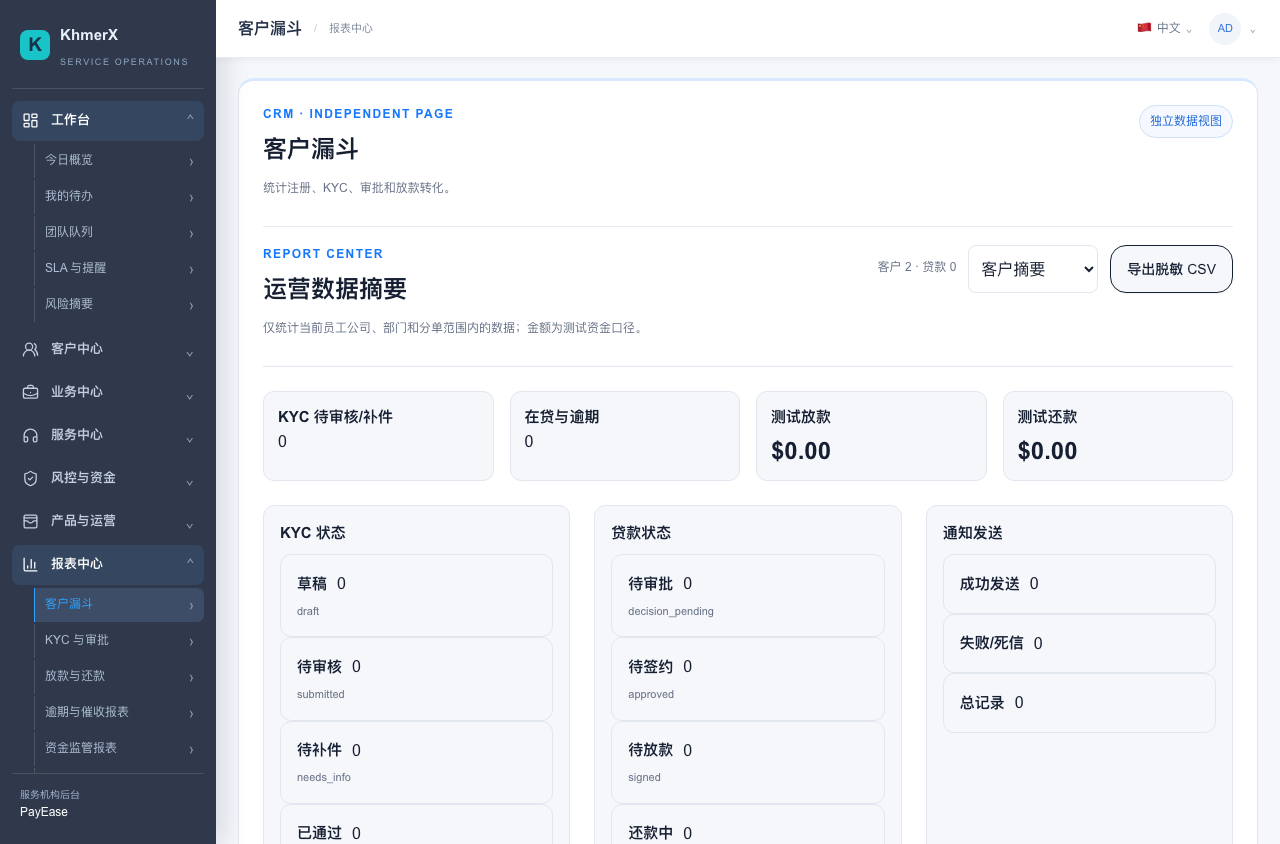
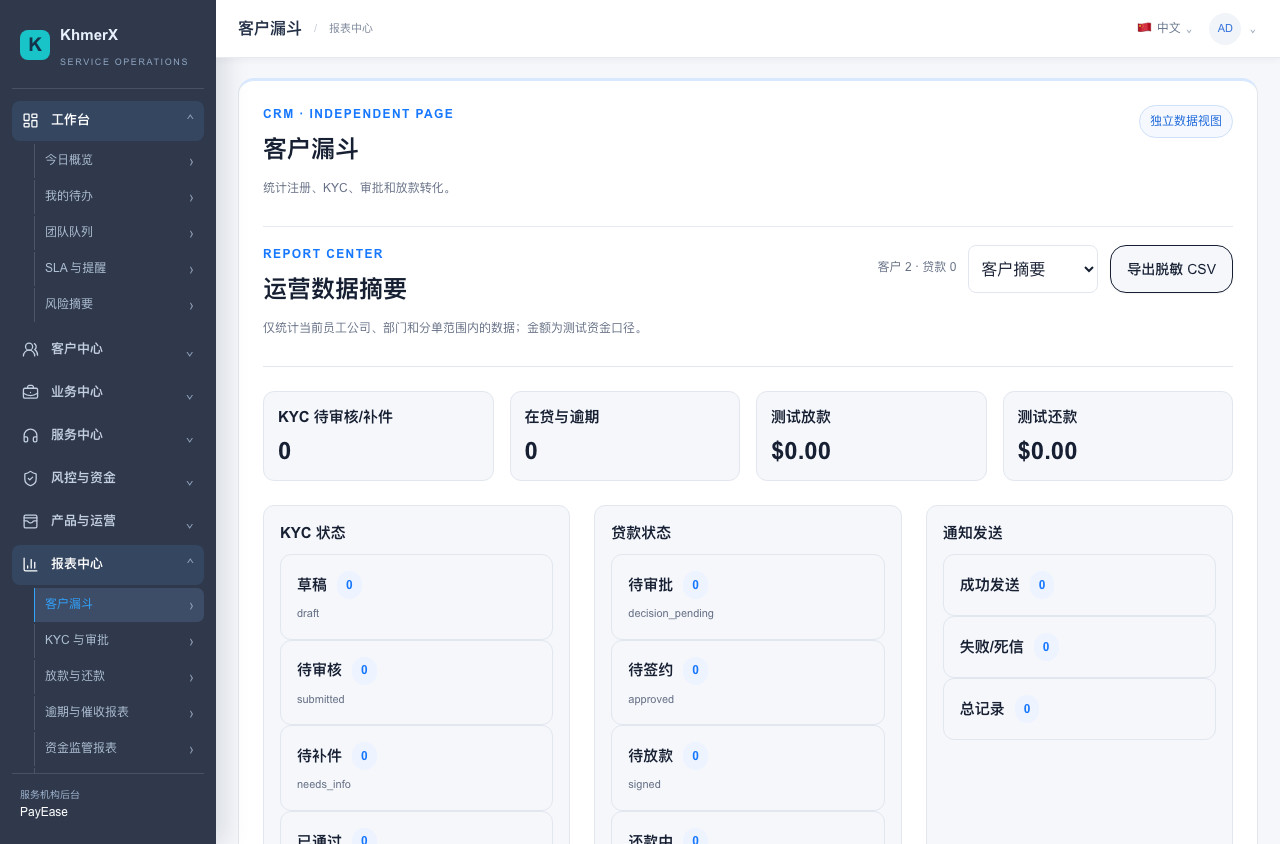
fix(team): render zero KPI values

diff --git a/components/operator-row.tsx b/components/operator-row.tsx
@@ -16,7 +16,7 @@ type OperatorRowProps={
 export function OperatorRow({title,secondary,status,plainStatus=false,meta,actions,children,className=''}:OperatorRowProps){
   return <article className={`operator-row ${className}`.trim()}>
     <div className="operator-row-main">
-      <div className="operator-row-heading"><h3>{title}</h3>{status&&<span className={plainStatus?'operator-row-status operator-row-status-plain':'operator-row-status'}>{status}</span>}</div>
+      <div className="operator-row-heading"><h3>{title}</h3>{(status!==undefined&&status!==null)&&<span className={plainStatus?'operator-row-status operator-row-status-plain':'operator-row-status'}>{status}</span>}</div>
       {secondary&&<p className="operator-row-secondary">{secondary}</p>}
       {meta&&<div className="operator-row-meta">{meta}</div>}
     </div>

diff --git a/docs/review/team-shell-title-20261102.md b/docs/review/team-shell-title-20261102.md
@@ -15,7 +15,7 @@
 | `/team/customers?view=客户列表` | 客户列表 | `客户列表 / 客户中心` | `客户列表 · KhmerX 后台` | false |
 | `/team/reports?view=客户漏斗` | 客户漏斗 | `客户漏斗 / 报表中心` | `客户漏斗 · KhmerX 后台` | false |
 
-The six screenshots below were opened and visually checked. On mobile, the title remains on one line and the language/account controls remain visible; on desktop, the sidebar and parent breadcrumb remain aligned.
+The eight screenshots below were opened and visually checked. On mobile, the title remains on one line and the language/account controls remain visible; on desktop, the sidebar and parent breadcrumb remain aligned. The two report screenshots were also checked with Playwright `getComputedStyle`: all four KPI value elements returned `font-size: 24px`, `font-weight: 700`, and `color: rgb(23, 32, 51)` (`--color-text-primary`).
 
 ## Screenshot hashes
 
@@ -25,7 +25,8 @@ f8e9d741603db878541c736ee8c438b84fcdd4c5eef07f7c6465b23d04c3cc8d  customers-390.
 60ed1595f7287f223338f1d692f8bdb9384f6e7f94e8e1c27b814c9235582f1d  kyc-1280.png
 70fce835b66718c8e2239113f34efe8e8716354562651dfb7fbca739607daa3b  kyc-390.png
 dfa3ff79e9aba7544e681233ef6eee185f71bff01f6d05e6e67474e4e3d5e90a  reports-1280.png
-93bef42d20f5194cbd50d856df126591d74bc7f0282d496b1d4020942b8d780b  reports-390.png
+f388a949b41d501be285578cbd7492604f9fb76d8e57c85b711ce8f91a8e9fd7  reports-1280.png (round 3)
+c2107e016e5a6acc037749a669496f9b94be19d675aecd3c8f5bd67c7d024d44  reports-390.png (round 3)
 ```
 
 Assets: `docs/review/assets/team-shell-title-20261102/`.
